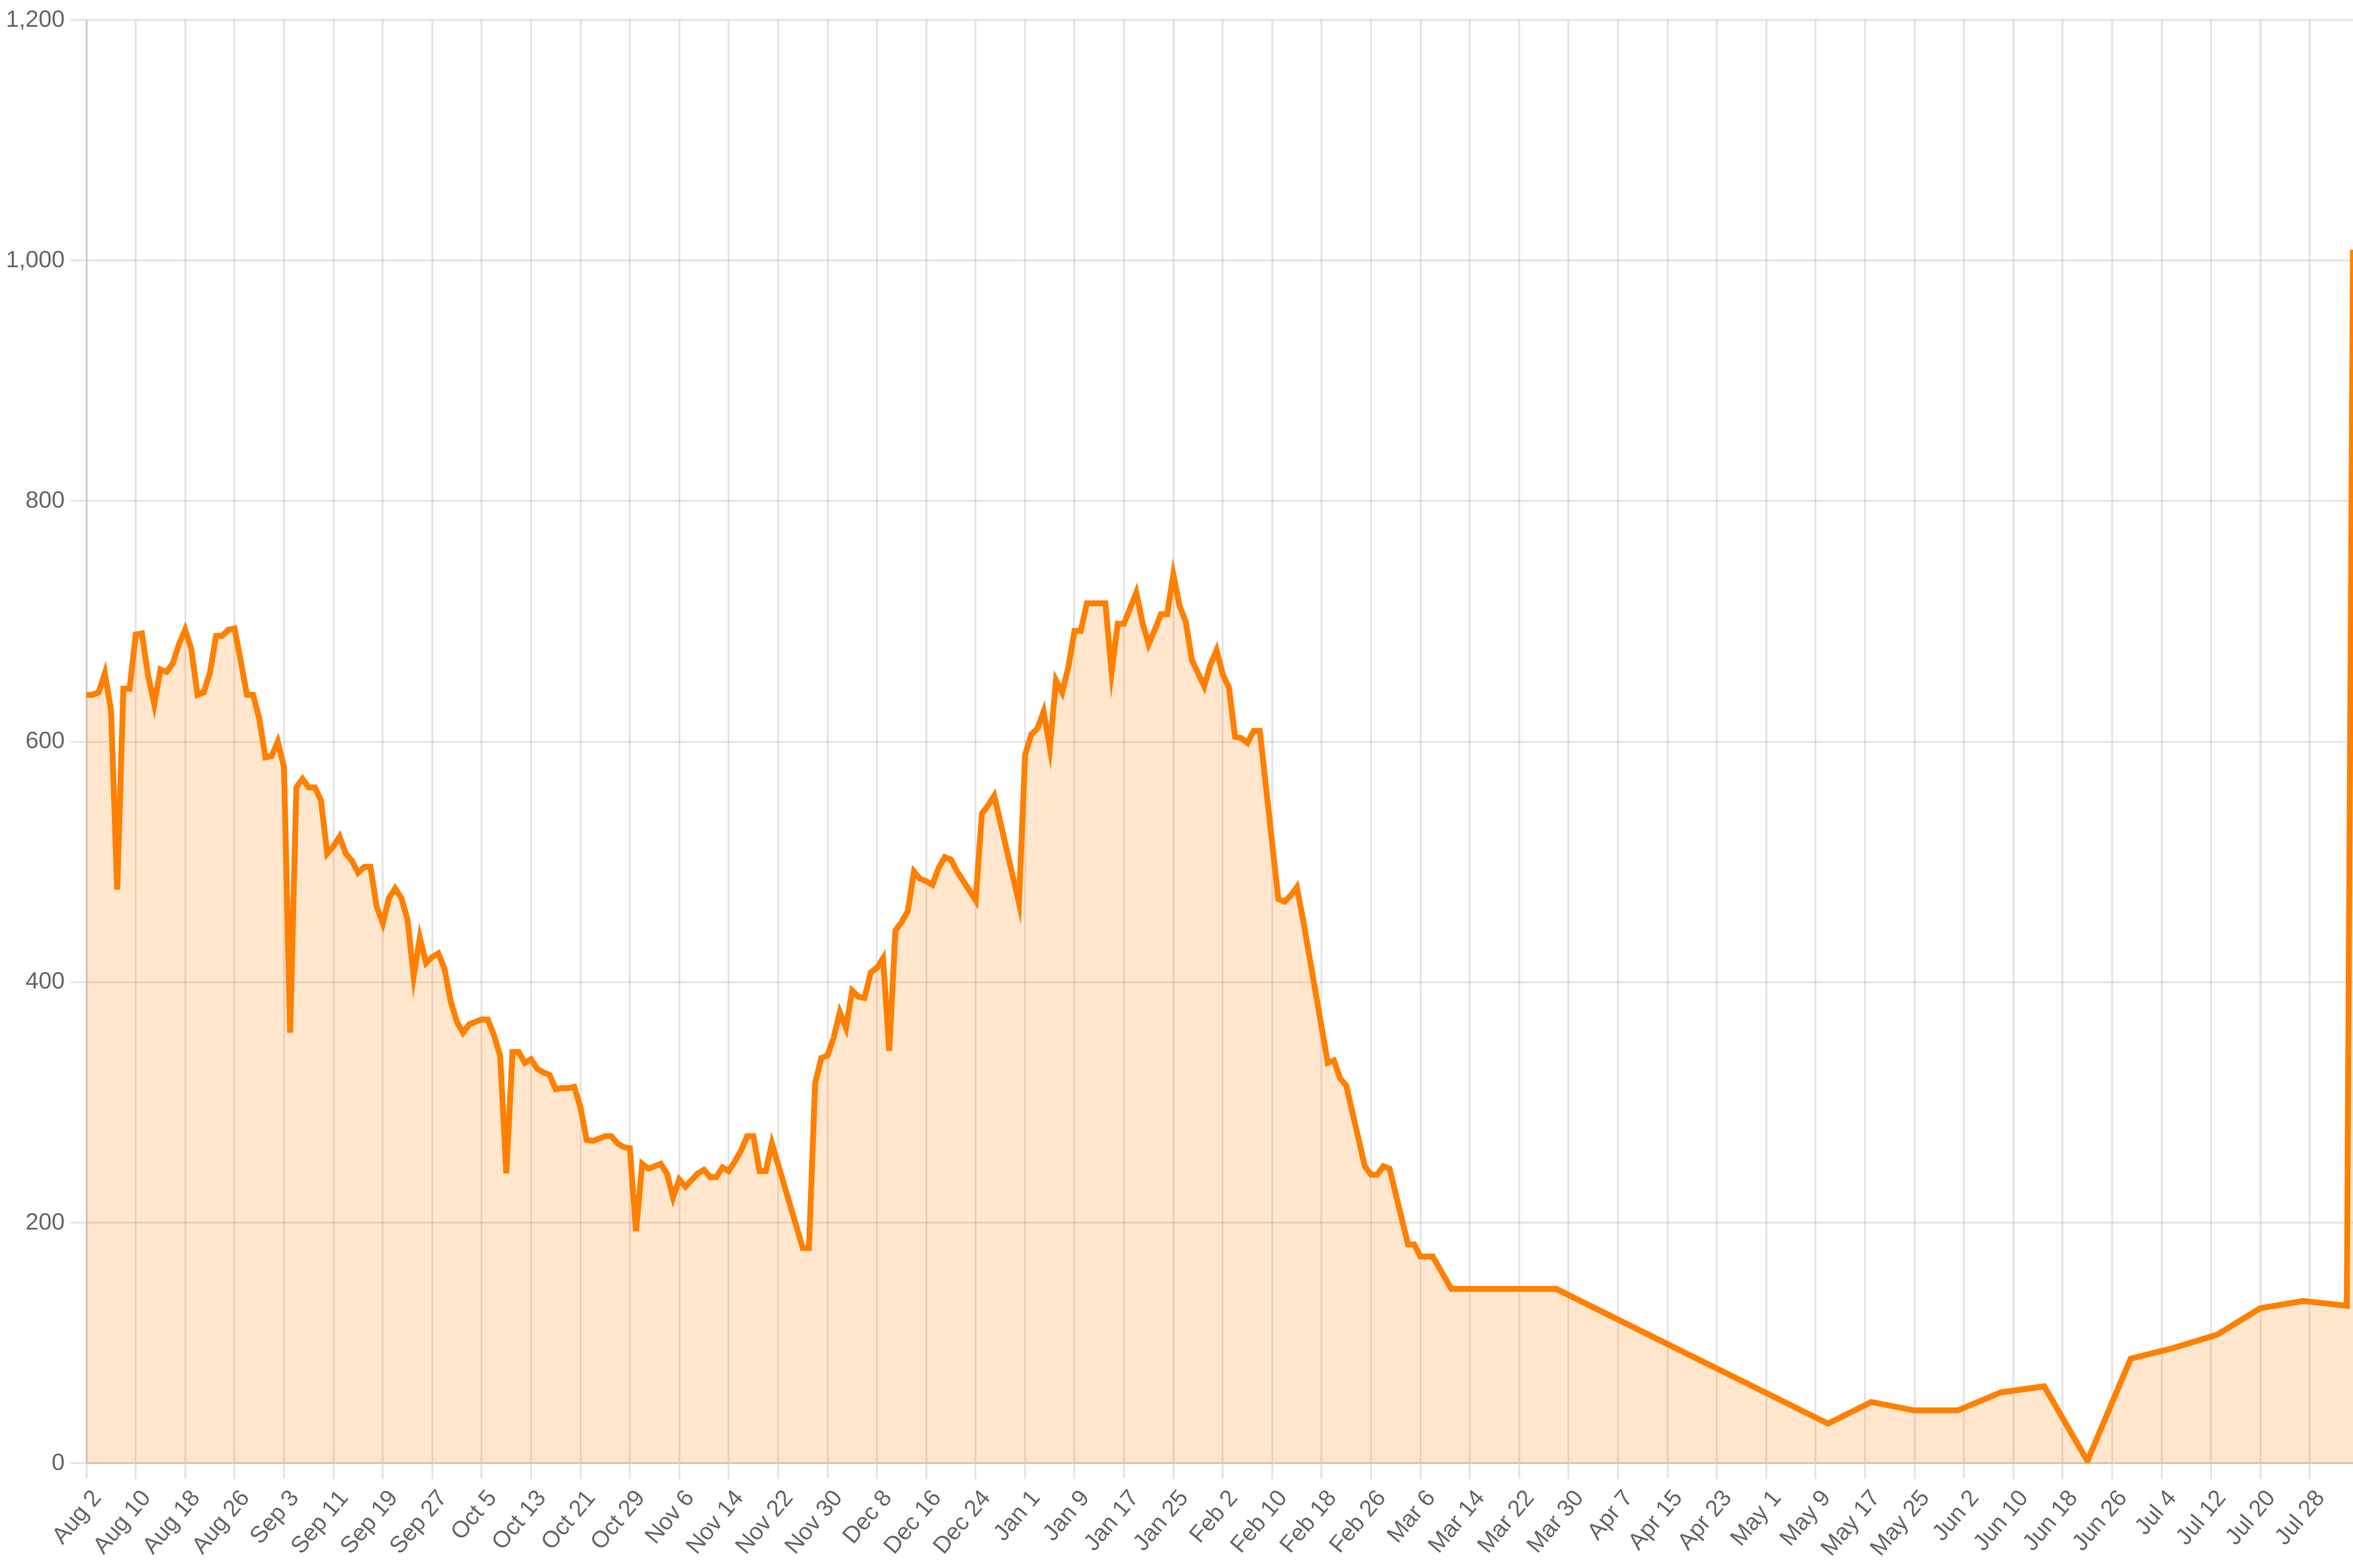
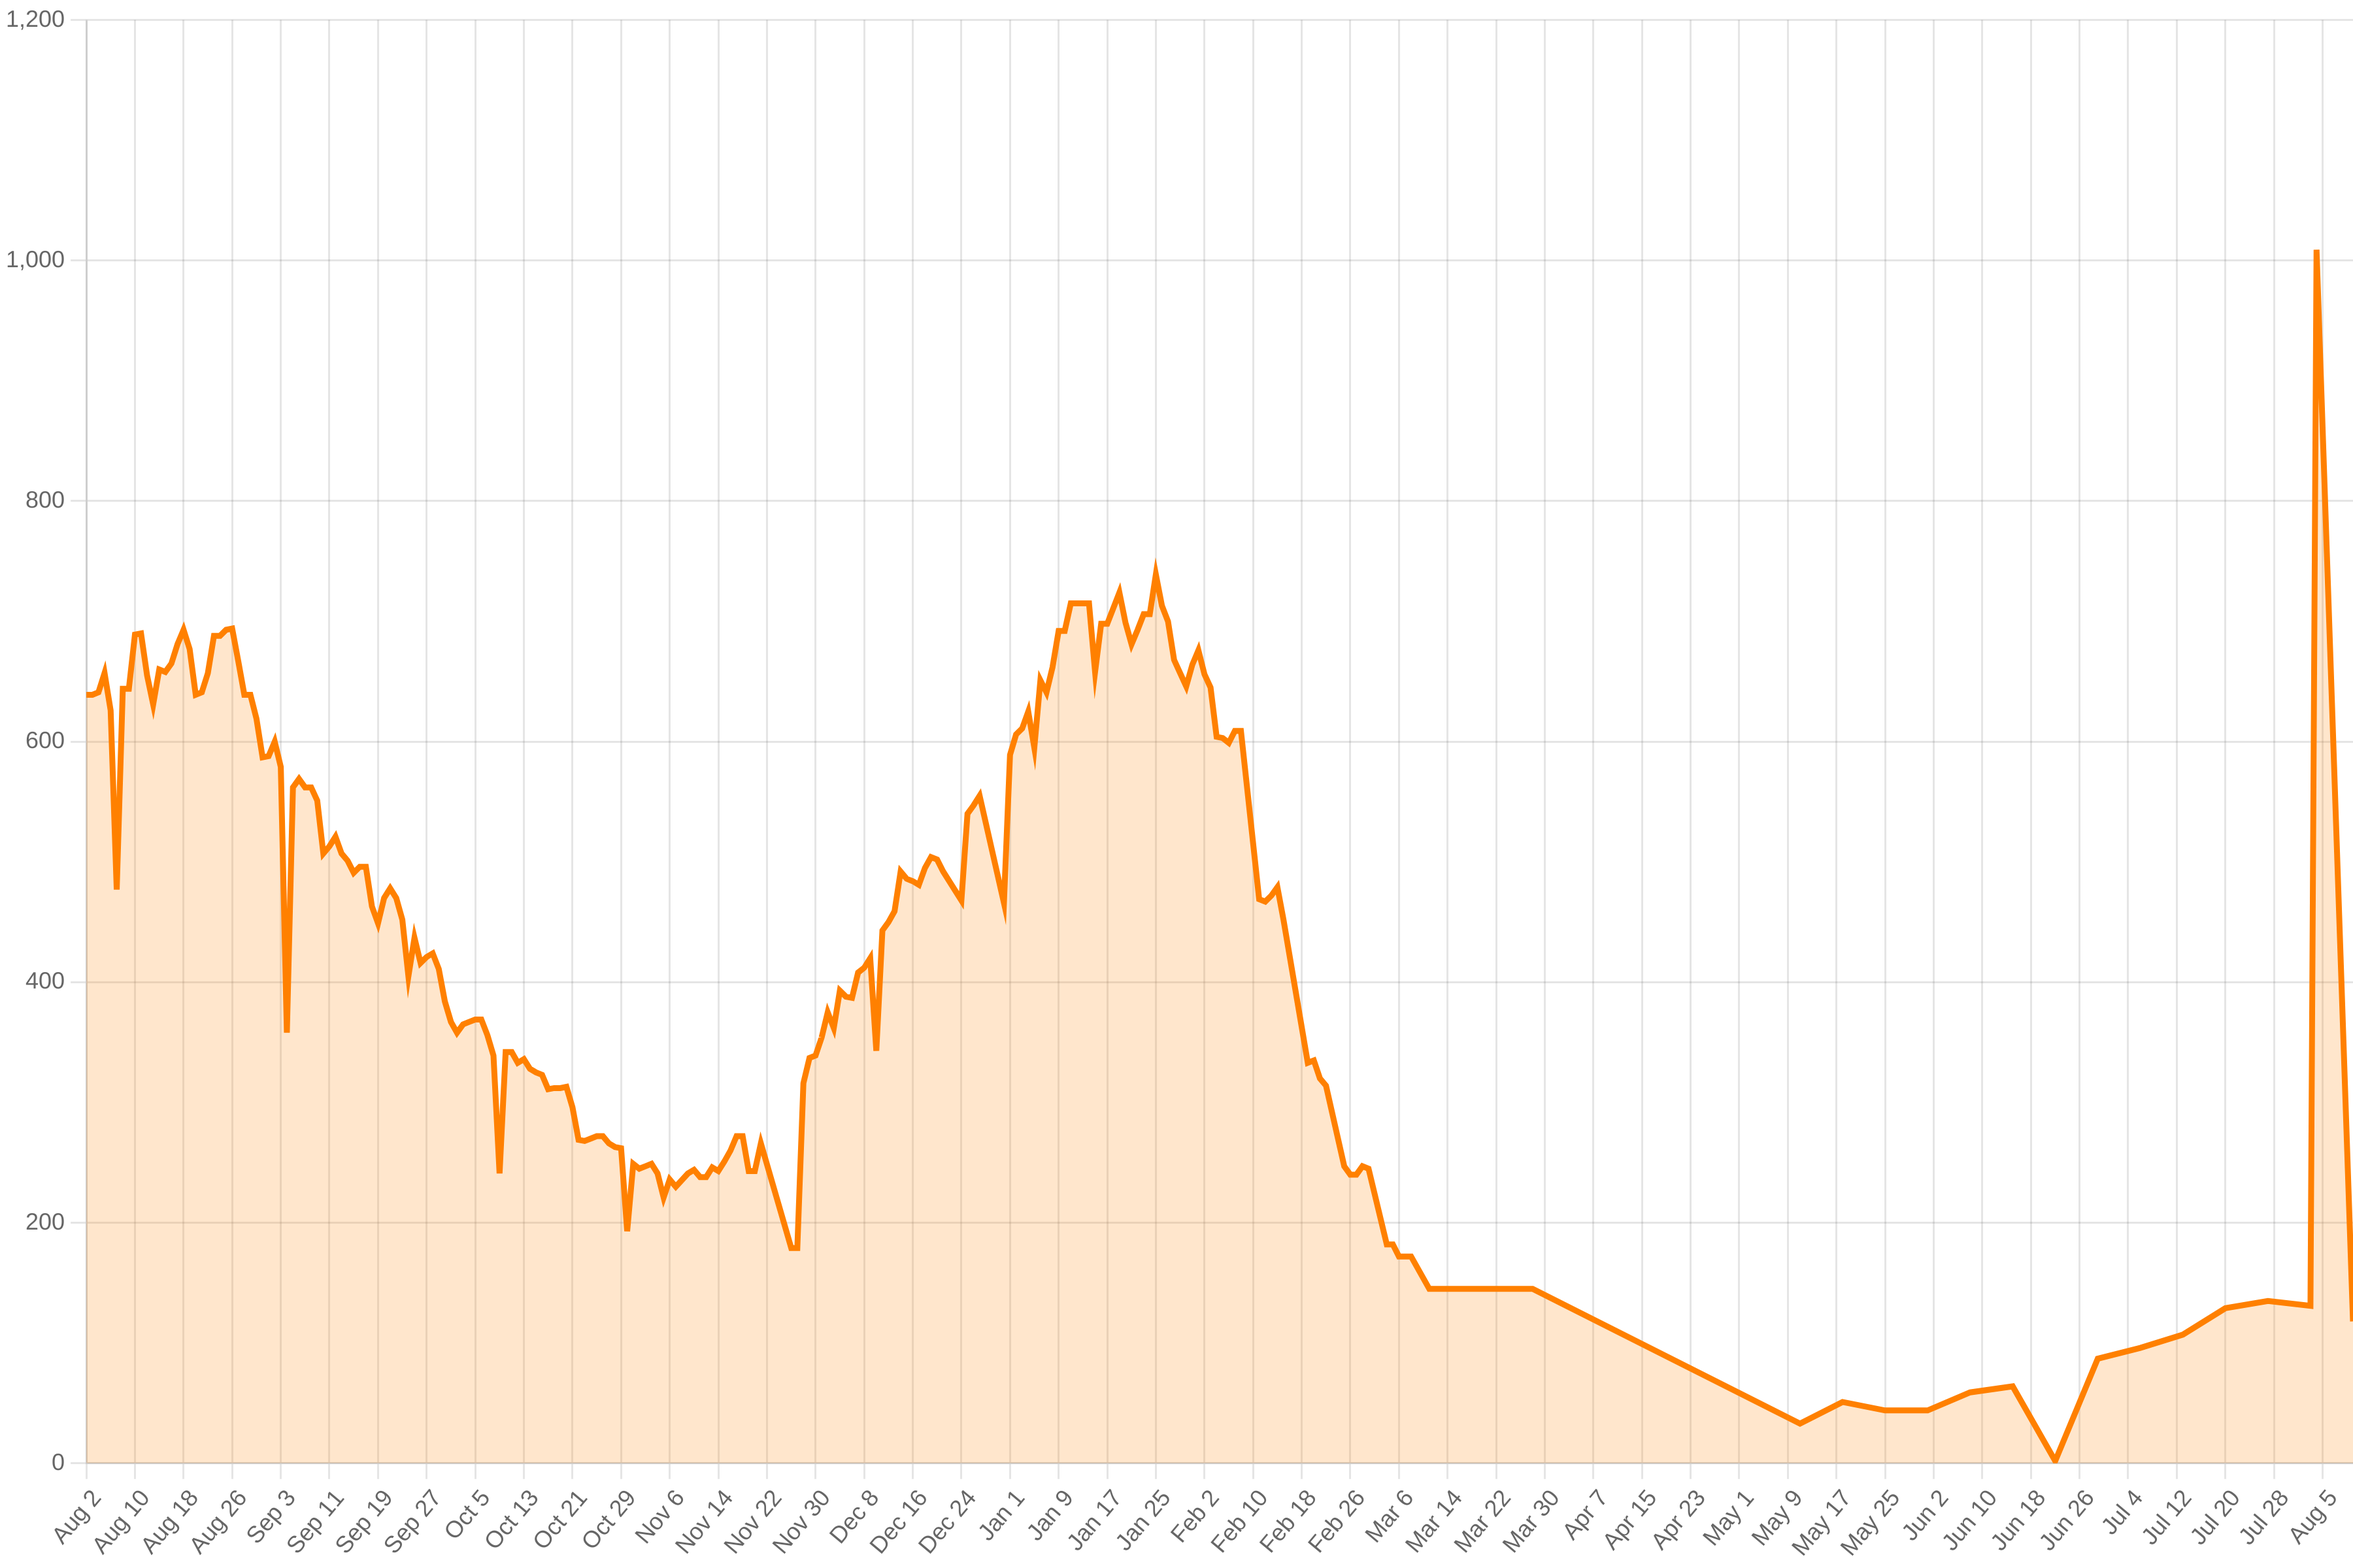
regular update

Changed region(s): [[0.0622, 0.1562, 1.0, 1.0], [0.2489, 0.0312, 0.6222, 0.8438], [0.0622, 0.0312, 0.2489, 0.75]]

diff --git a/docs/index.html b/docs/index.html
@@ -43,10 +43,10 @@
     <main>
       <h1>Missouri COVID data</h1>
       <p>
-        The data on this page was updated <strong>Saturday, August 6, 2022</strong>. For
+        The data on this page was updated <strong>Friday, August 12, 2022</strong>. For
         the values that are averages over 7 days, the start date is
-        <strong>Friday, July 29, 2022</strong> and the end date is
-        <strong>Thursday, August 4, 2022</strong>. The original data comes from the
+        <strong>Thursday, August 4, 2022</strong> and the end date is
+        <strong>Wednesday, August 10, 2022</strong>. The original data comes from the
         <a
           href="https://results.mo.gov/t/COVID19/views/WeeklyCOVIDMockup_16487370423730/WeeklyReport-Revised-v2?:embed=y&:showVizHome=no&:host_url=https%3A%2F%2Fresults.mo.gov%2F&:embed_code_version=3&:tabs=no&:toolbar=no&:showAppBanner=false&:display_spinner=no&:loadOrderID=0"
           >Missouri Department of Health and Senior Services</a
@@ -79,19 +79,19 @@
 
       <h2>New cases</h2>
       <p>
-        There have been <strong>9,641</strong> new cases in the
-        past 7 days, about <strong>1,377 per day</strong>.
+        There have been <strong>9,816</strong> new cases in the
+        past 7 days, about <strong>1,402 per day</strong>.
       </p>
       <img src="charts/totalPositive.png" />
 
       <h2>Outcomes</h2>
       <p>
-        There are currently 1,009 people hospitalized with
+        There are currently 967 people hospitalized with
         COVID-19.
       </p>
       <img src="charts/hospitalizations.png" />
 
-      <p>1,009 people are in intensive care.</p>
+      <p>118 people are in intensive care.</p>
       <img src="charts/icu.png" />
 
       <h2>Unavailable</h2>
